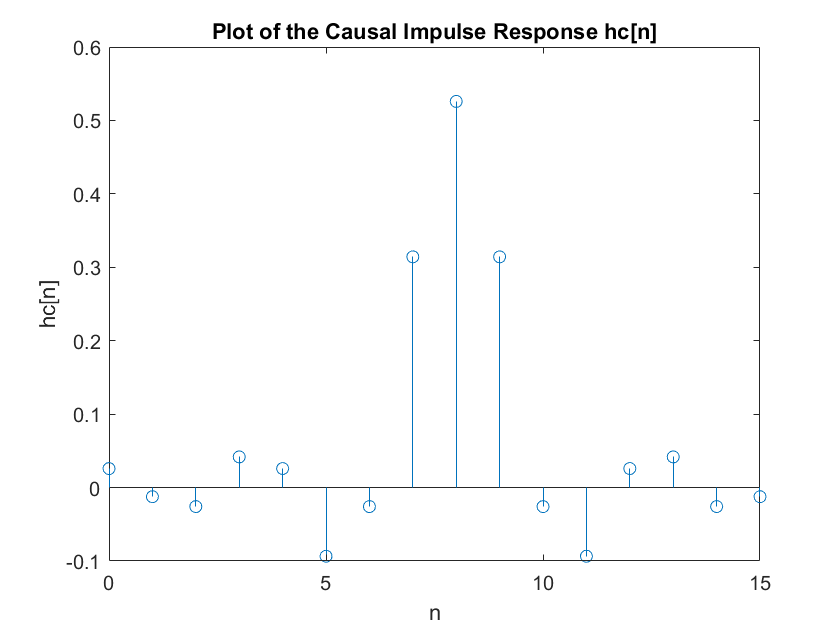
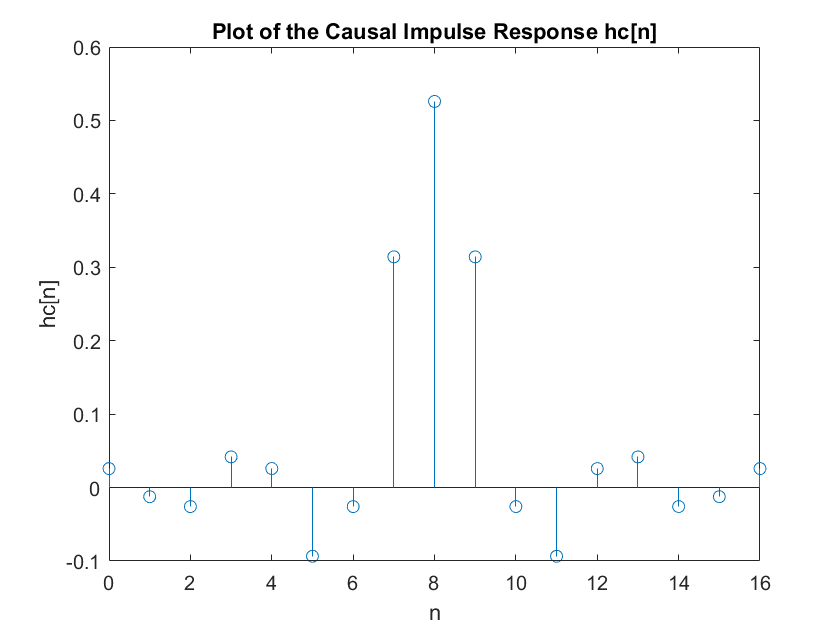
Added additional sample to symmetric causal impulse response

diff --git a/6/Homework6_Sowatzke.tex b/6/Homework6_Sowatzke.tex
@@ -93,12 +93,14 @@
 			Note that the frequency response matches the ideal frequency response exactly at each of the frequencies samples we specified when defining $H(k)$.
 			
 			\item Rearrange the elements of \texttt{h} to obtain a causal, symmetric impulse response, \texttt{hc}. Plot the result. For example, in MATLAB do \texttt{stem(hc)}. What is the final length of this filter?
-		\end{enumerate}
-		
+			
 			\begin{figure}[H]
 				\centerline{\fbox{\includegraphics[width=0.5\textwidth]{prob1d_causal_impulse_response.png}}}
 				\caption{Causal Impulse Response $hc[n]$}
 			\end{figure}
+			
+			The final length of the symmetric causal filter is 17. The first and last samples are $h[8]/2$. When the filter is turned in a discrete Fourier series with period 16. The first and last samples of the causal filter add together to produce the correct starting sample. 
+		\end{enumerate}
 	\end{enumerate}
 	
 	

diff --git a/6/Homework6_Sowatzke.m b/6/Homework6_Sowatzke.m
@@ -63,6 +63,9 @@ title('DFT of h[n]');
 %% Problem 1d)
 % Create causal impulse response hc
 hc = fftshift(h);
+hc(1) = hc(1)/2;
+hc = [hc; hc(1)];
+n = 0:(length(hc)-1);
 
 % Plot the causal impulse response
 stem(n, hc);
